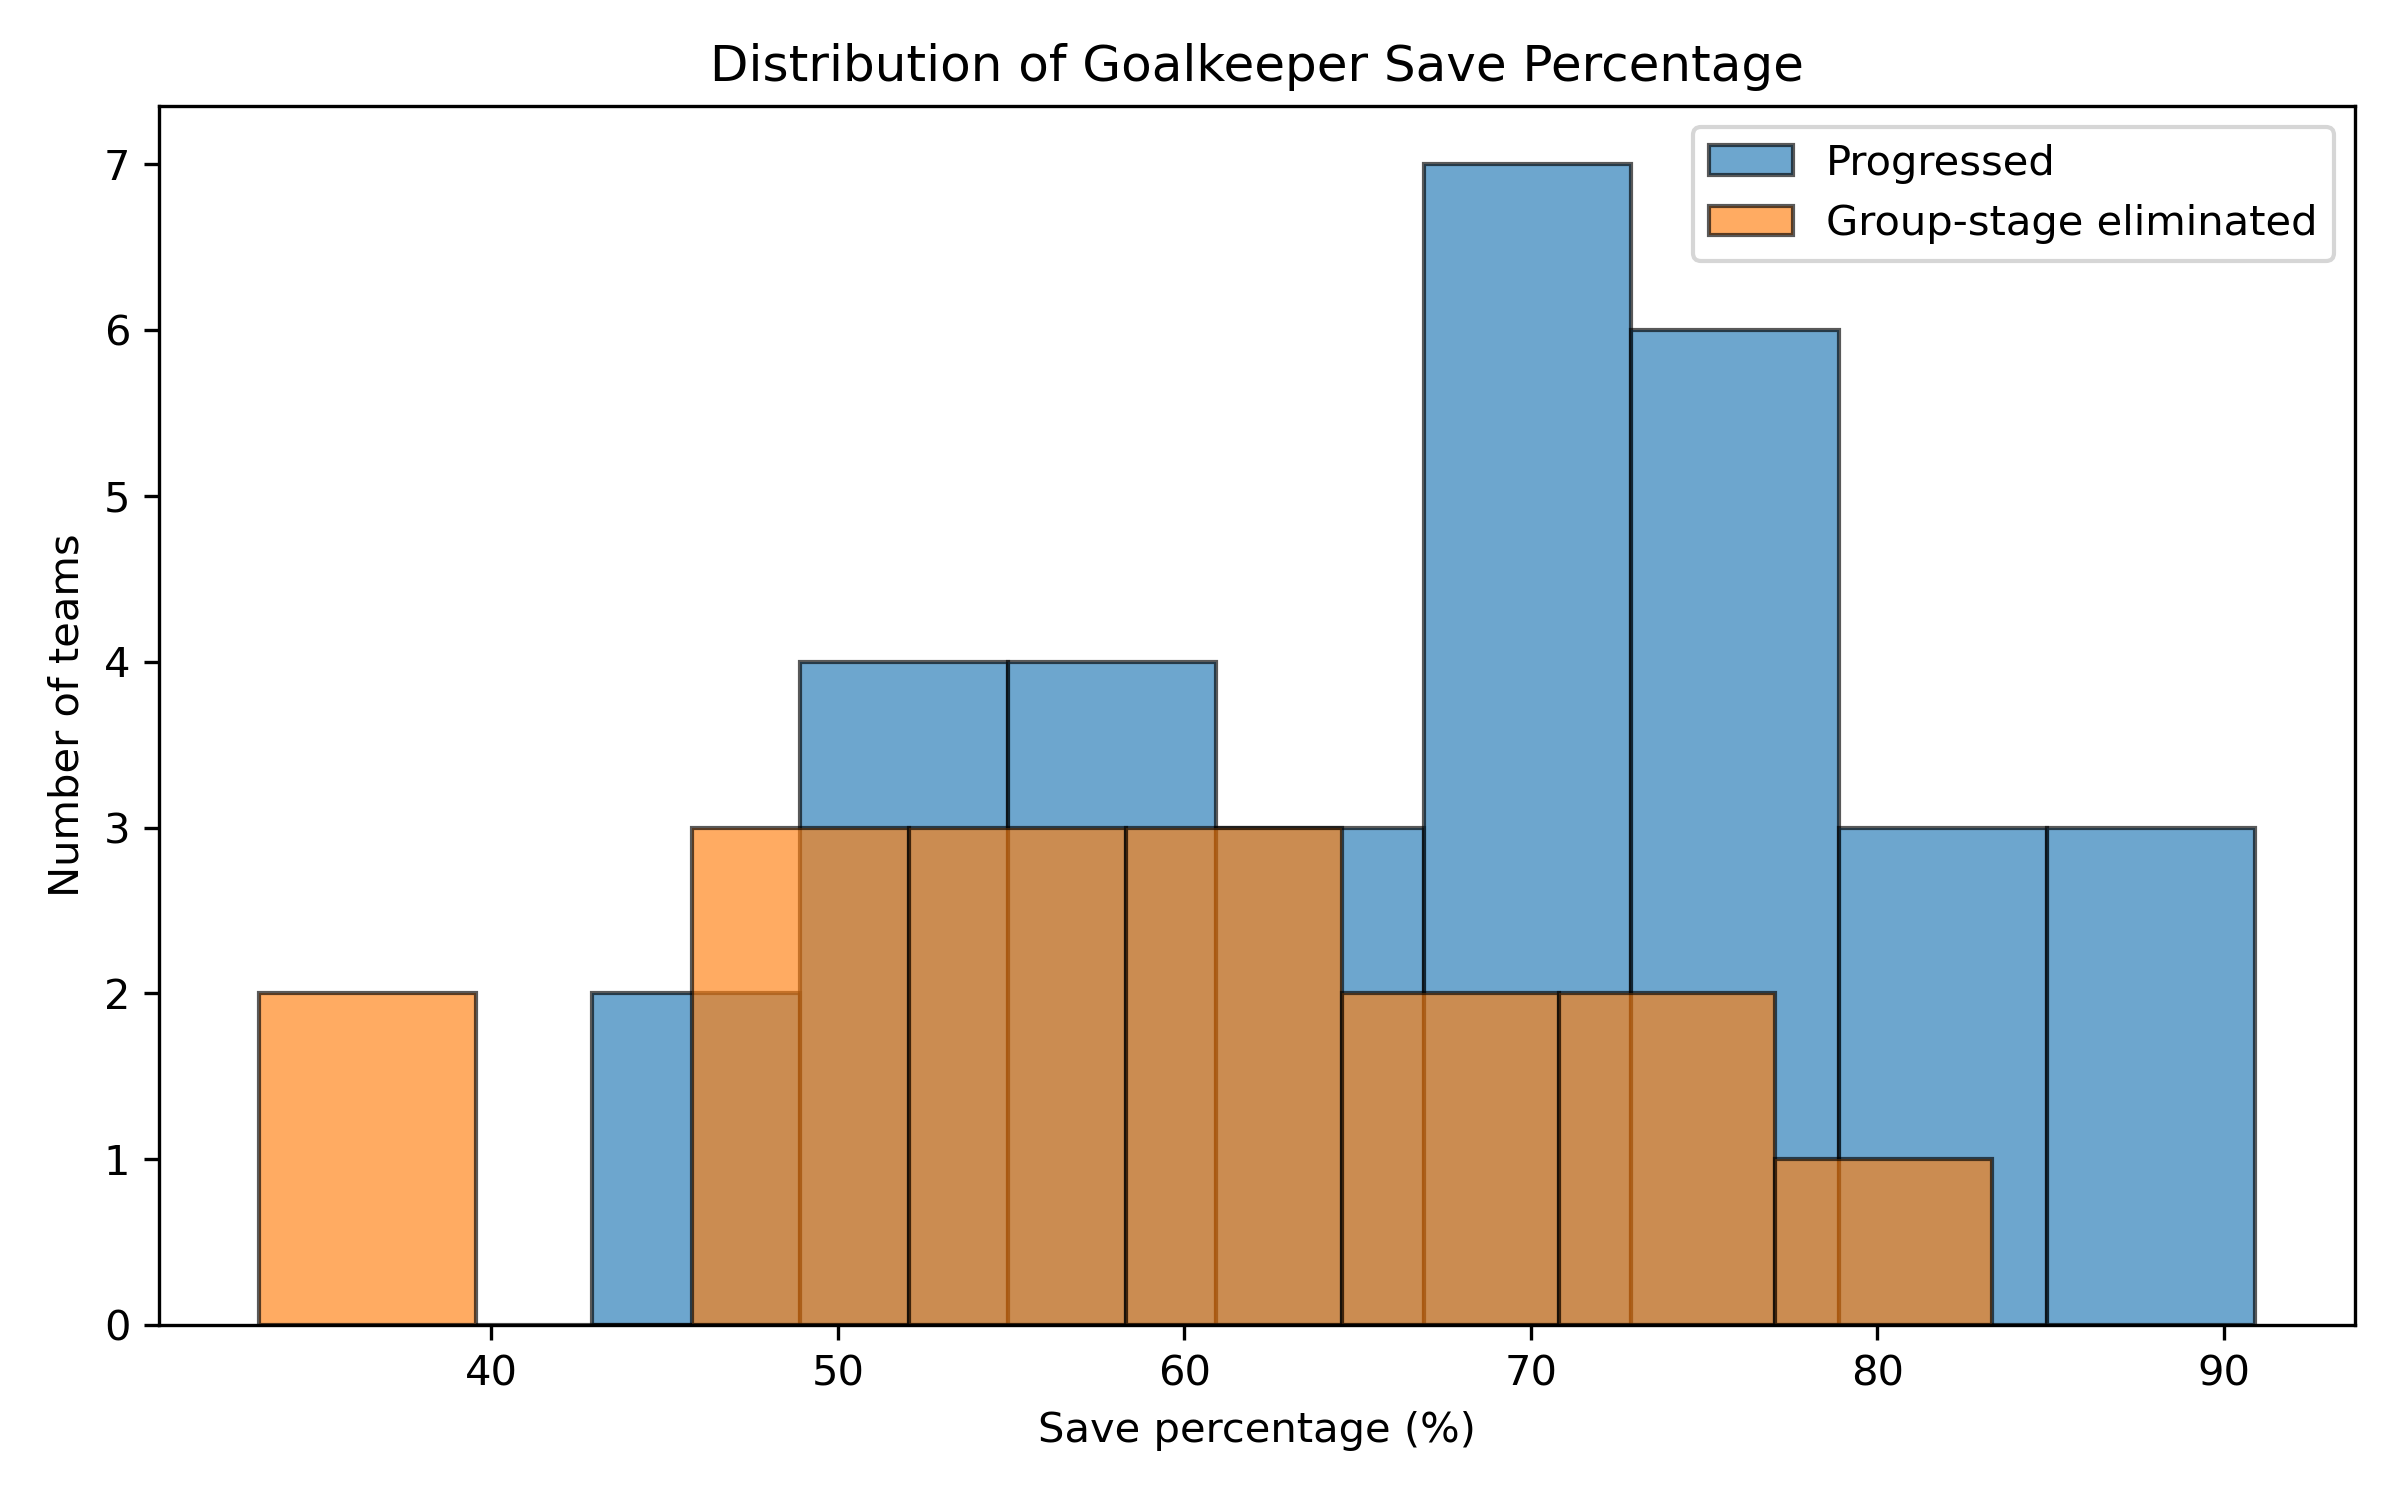
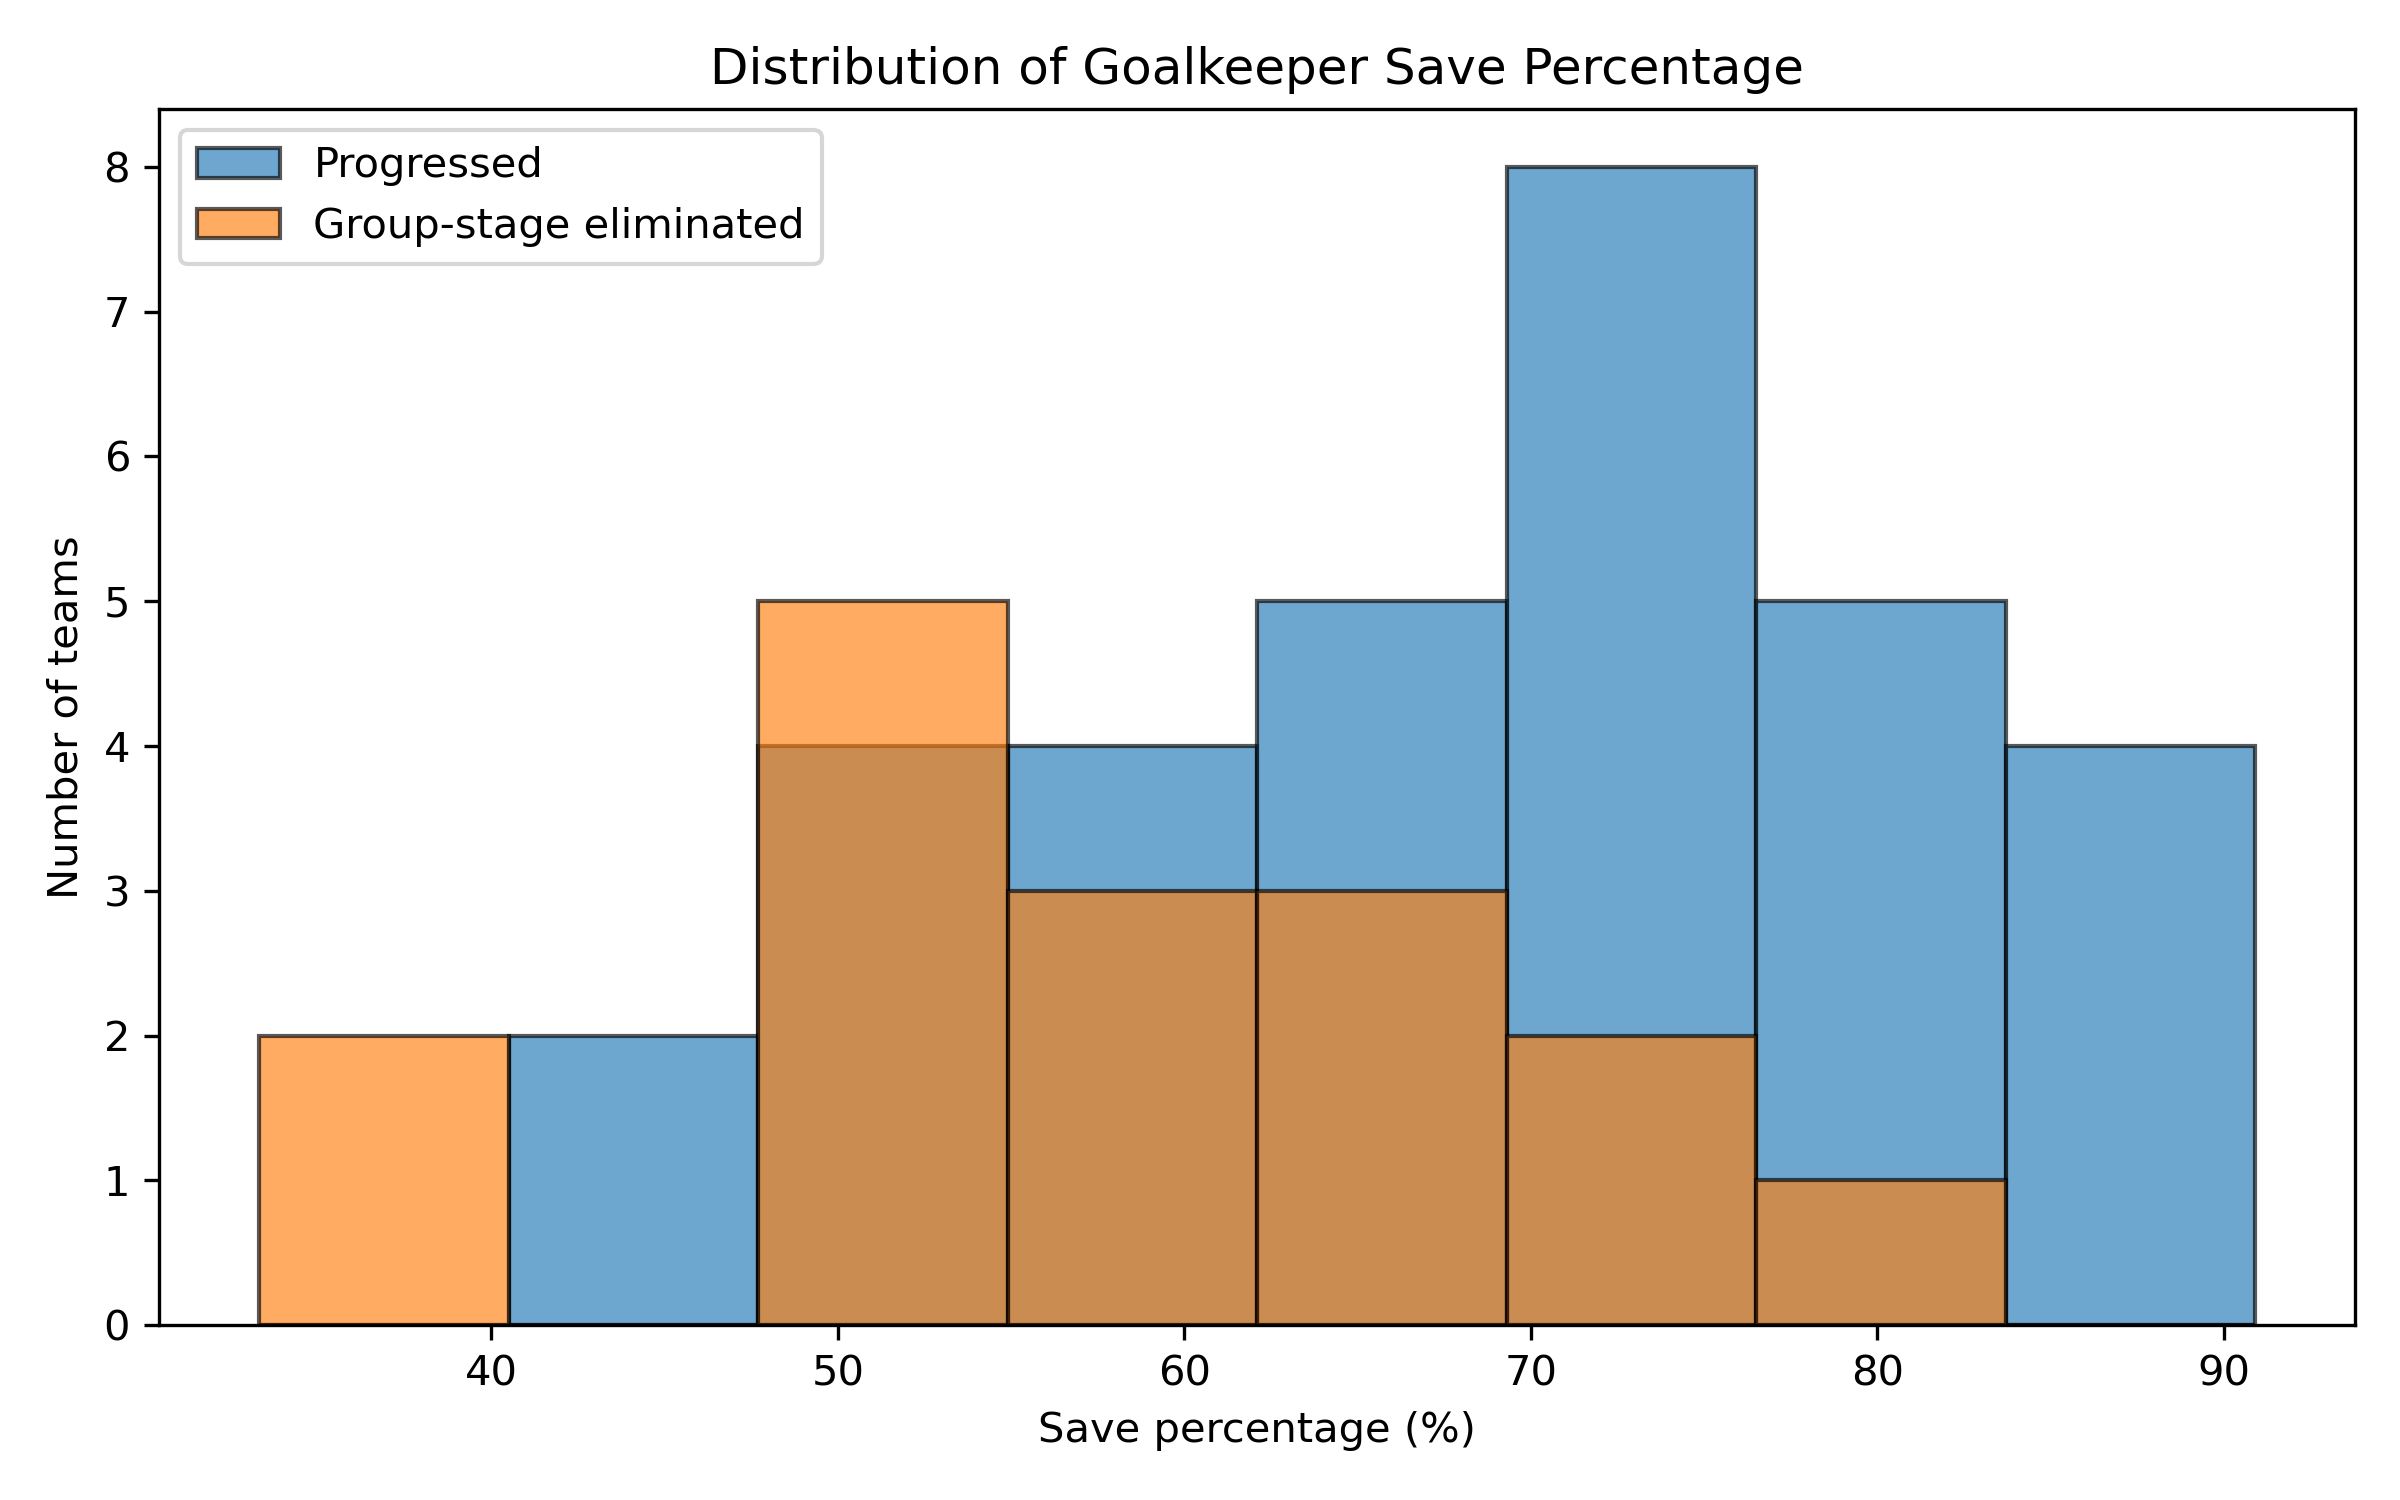
fix: align Task 4 histogram bins

diff --git a/src/analyze_task4_goalkeeping.py b/src/analyze_task4_goalkeeping.py
@@ -4,6 +4,7 @@ import sys
 from pathlib import Path
 
 import matplotlib.pyplot as plt
+import numpy as np
 import pandas as pd
 from scipy.stats import t
 
@@ -178,17 +179,27 @@ def create_figures(progressed_save_percentages, eliminated_save_percentages):
     plt.savefig(BOXPLOT_PATH, dpi=300)
     plt.close()
 
+    minimum_save_percentage = min(
+        progressed_save_percentages.min(), eliminated_save_percentages.min()
+    )
+    maximum_save_percentage = max(
+        progressed_save_percentages.max(), eliminated_save_percentages.max()
+    )
+    histogram_bin_edges = np.linspace(
+        minimum_save_percentage, maximum_save_percentage, 9
+    )
+
     plt.figure(figsize=(8, 5))
     plt.hist(
         progressed_save_percentages,
-        bins=8,
+        bins=histogram_bin_edges,
         alpha=0.65,
         label=PROGRESSED,
         edgecolor="black",
     )
     plt.hist(
         eliminated_save_percentages,
-        bins=8,
+        bins=histogram_bin_edges,
         alpha=0.65,
         label=ELIMINATED,
         edgecolor="black",
